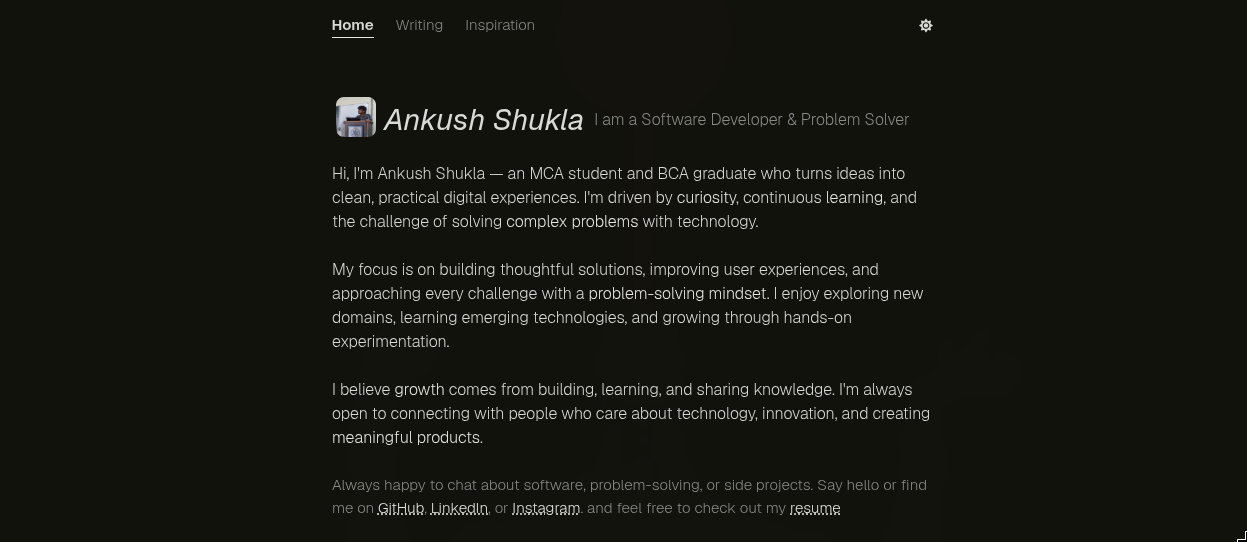
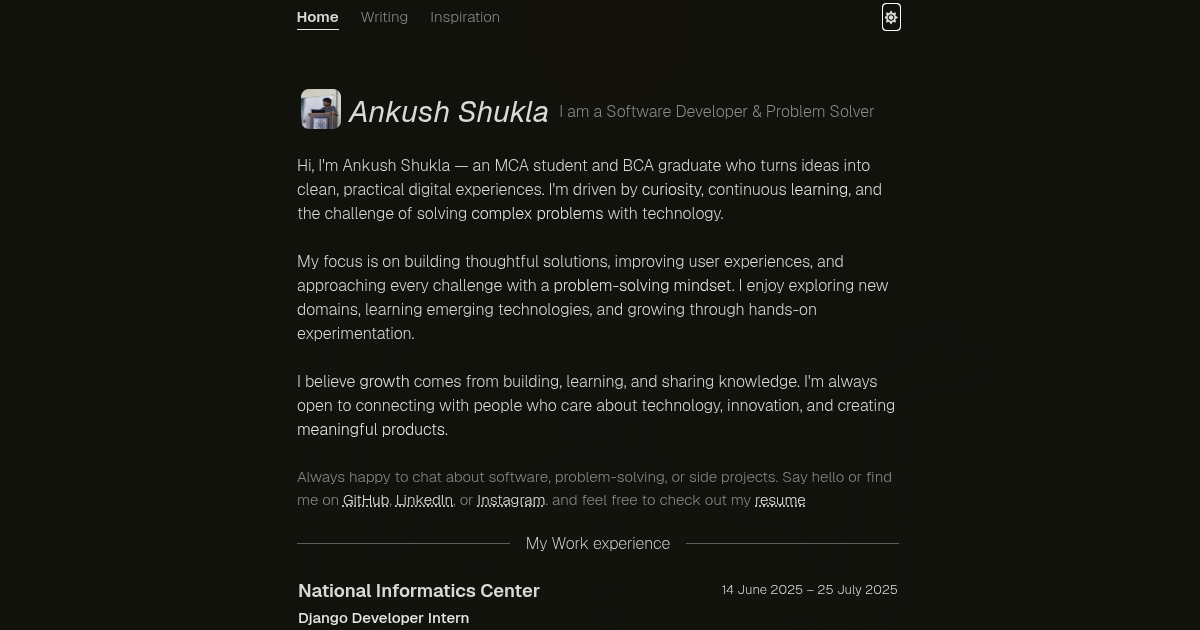
added og image

diff --git a/src/index.html b/src/index.html
@@ -1,4 +1,4 @@
-```html
+
 <!doctype html>
 <html lang="en">
   <head>
@@ -66,4 +66,4 @@
     <app-root></app-root>
   </body>
 </html>
-```
+
